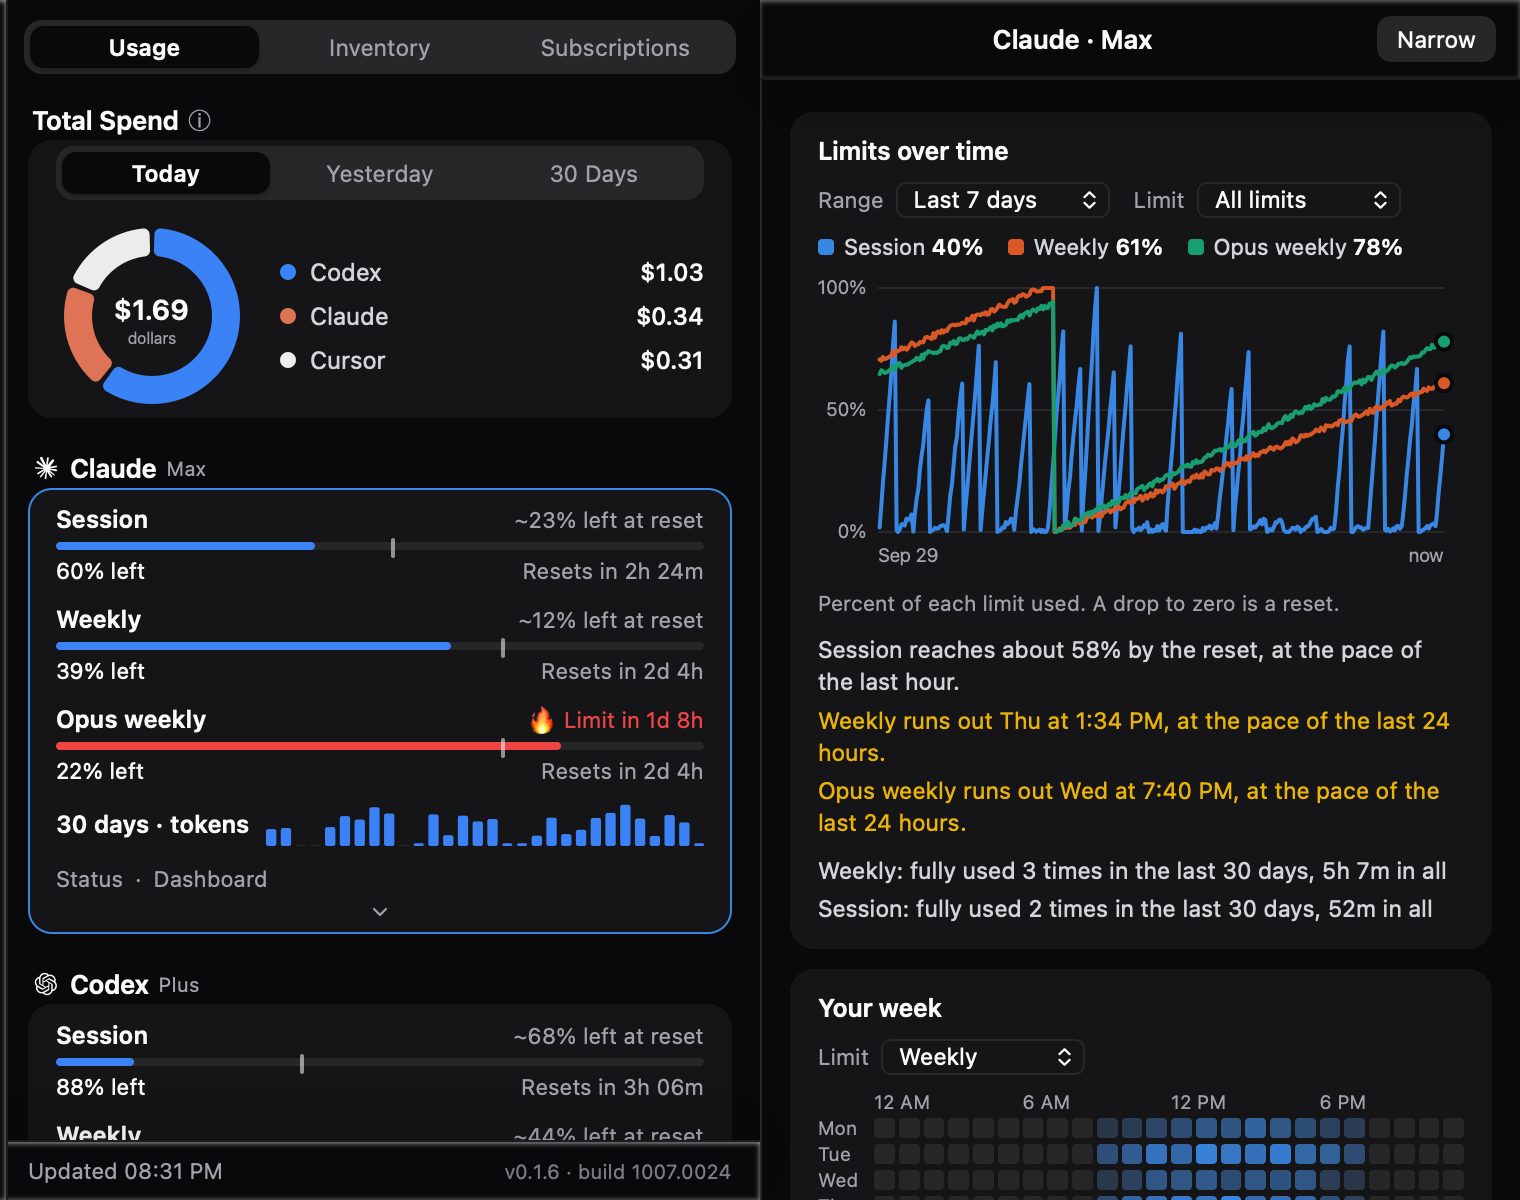
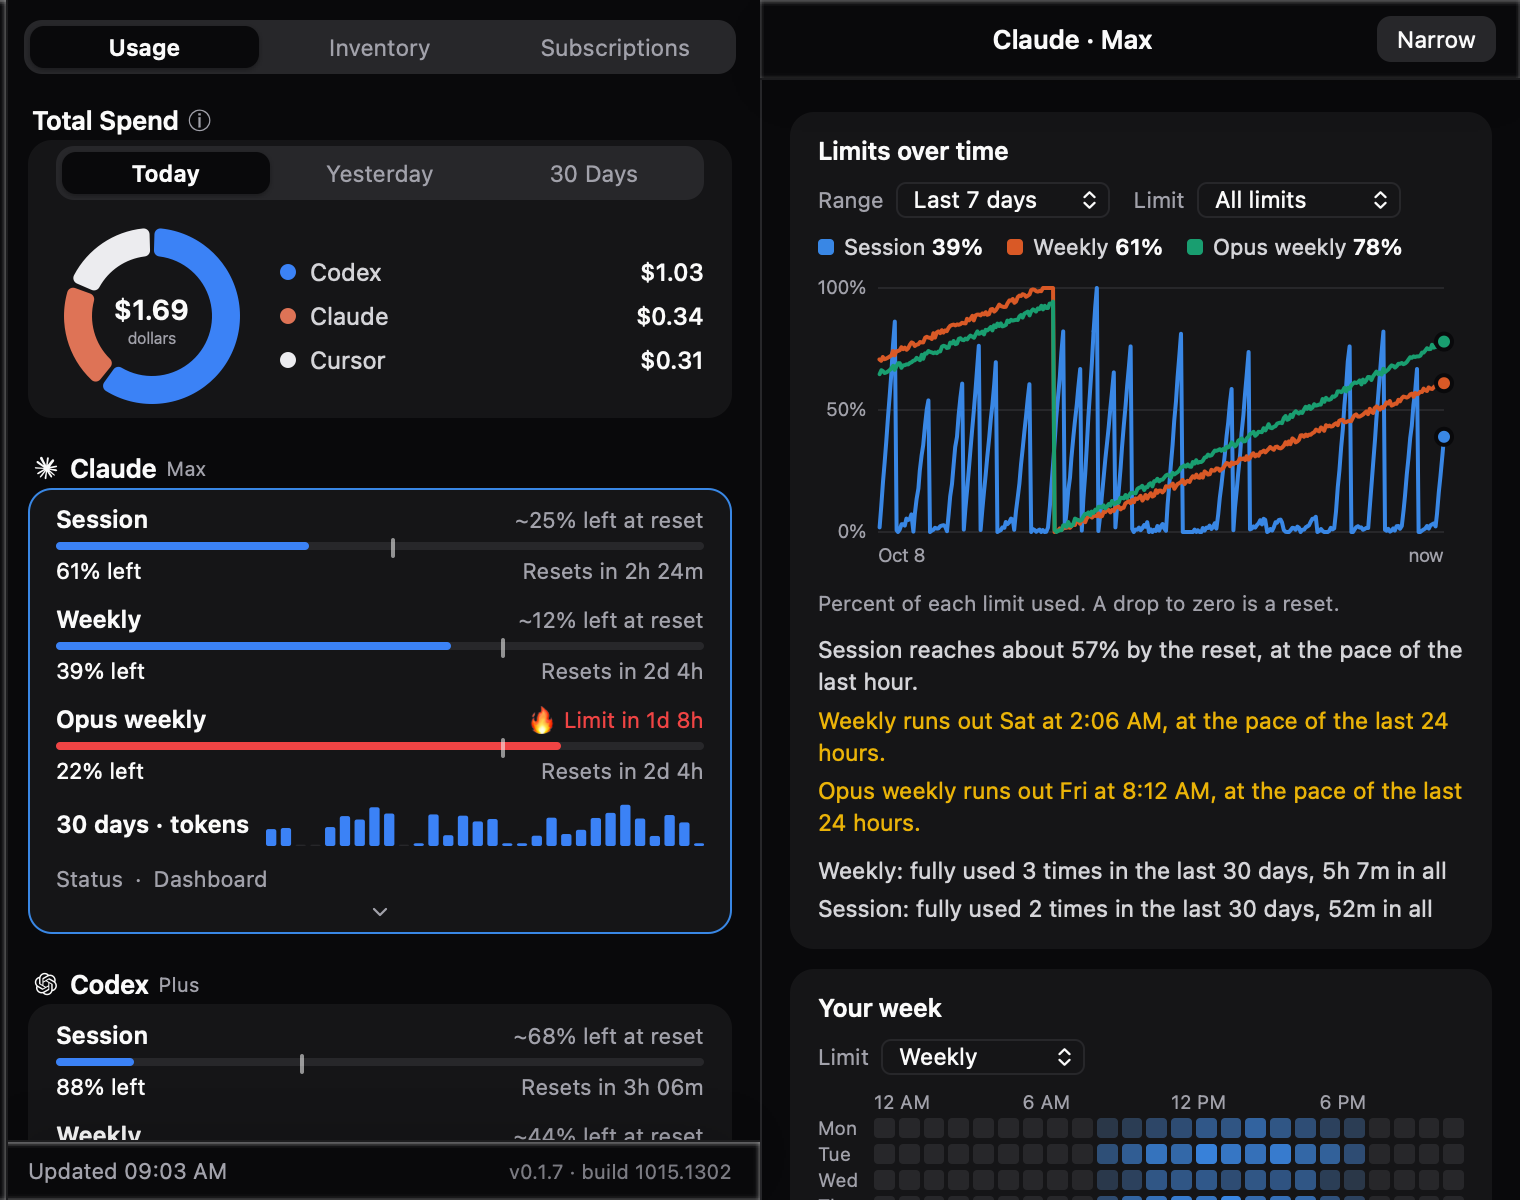
Record the 0.1.7 release and retake the README image from the 0.1.7 demo

diff --git a/SHIPPING.md b/SHIPPING.md
@@ -72,6 +72,16 @@ Where distribution stands, and what each remaining step needs. Checked 2026-09-2
   seat report carry the app's version: `crates/core/Cargo.toml` is now a third manifest to bump,
   and a test holds it equal to the app's.
 
+- **v0.1.7 was published on 2026-10-15** (13:39 UTC) from tag `v0.1.7` (commit 009928b, run
+  38742713193) by the `publish` job, after CI passed on the same commit (run 38741831415) and on
+  the bump commit under it (run 38739154840). The macOS 27 tray fix from PR #2 (issue #1, the first
+  outside report): tauri 2.12.4 with tray-icon 0.25.1, the Windows-only `webview2-com` /
+  `windows-core` pins held equal to wry's, and `ci.yml` now also runs on pull requests. Checked
+  afterwards: the three installers and the update feed answer, the feed names 0.1.7 with all seven
+  platform entries signed, and the product page, its demo, its changelog page and its twelve
+  screenshots show 0.1.7; `docs/promo.png` was retaken. Not verified on a macOS 27 machine; the
+  reporter was asked to confirm.
+
 ## Not yet on, and why
 
 1. **Update checks are opt-in and off by default.** A Settings toggle (`updateChecks`) turns them
